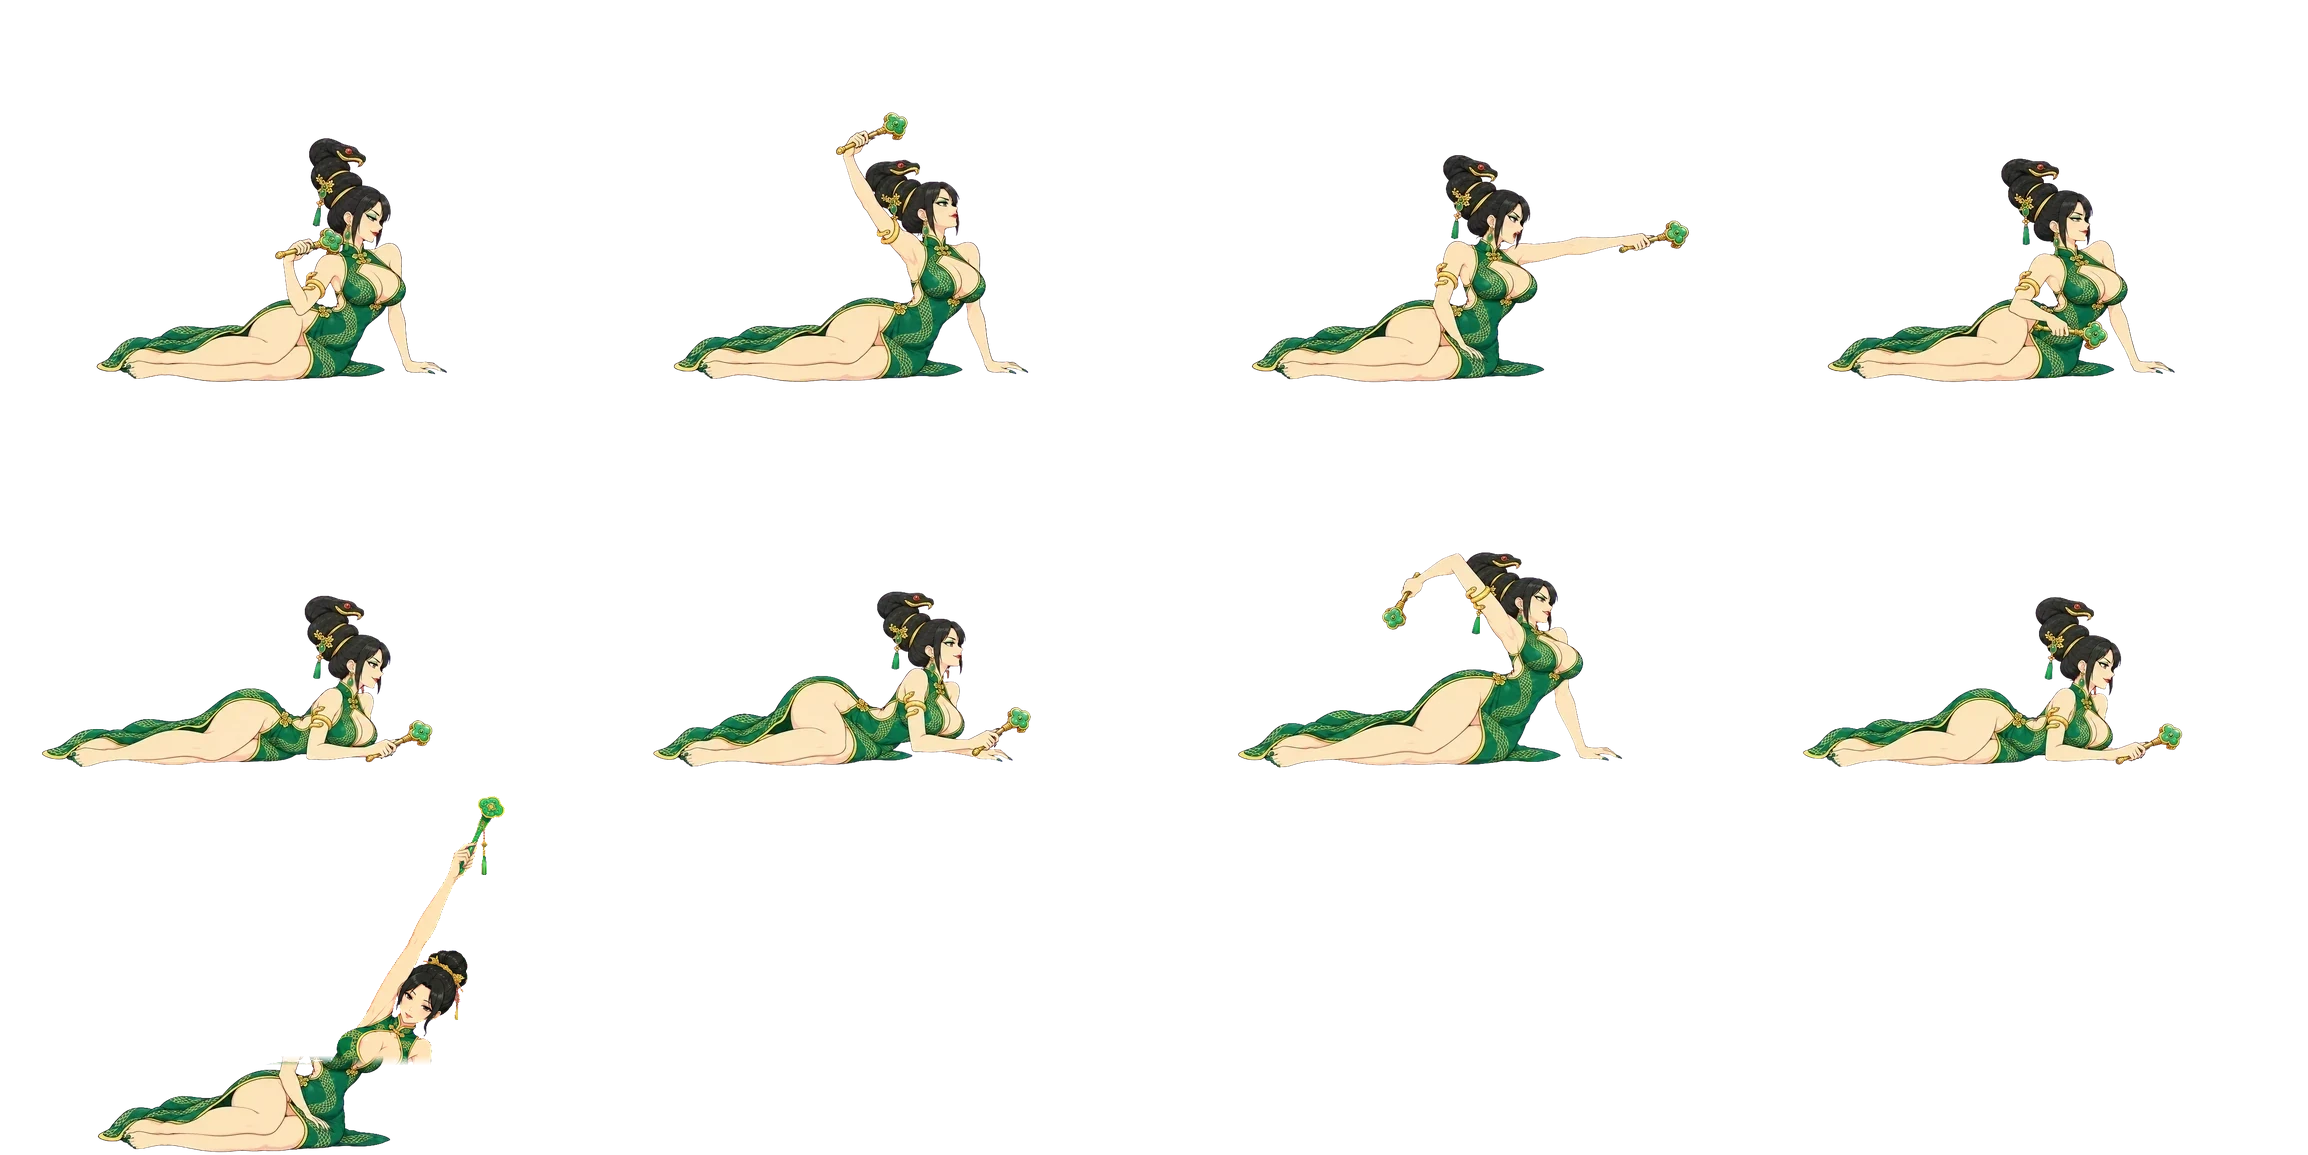
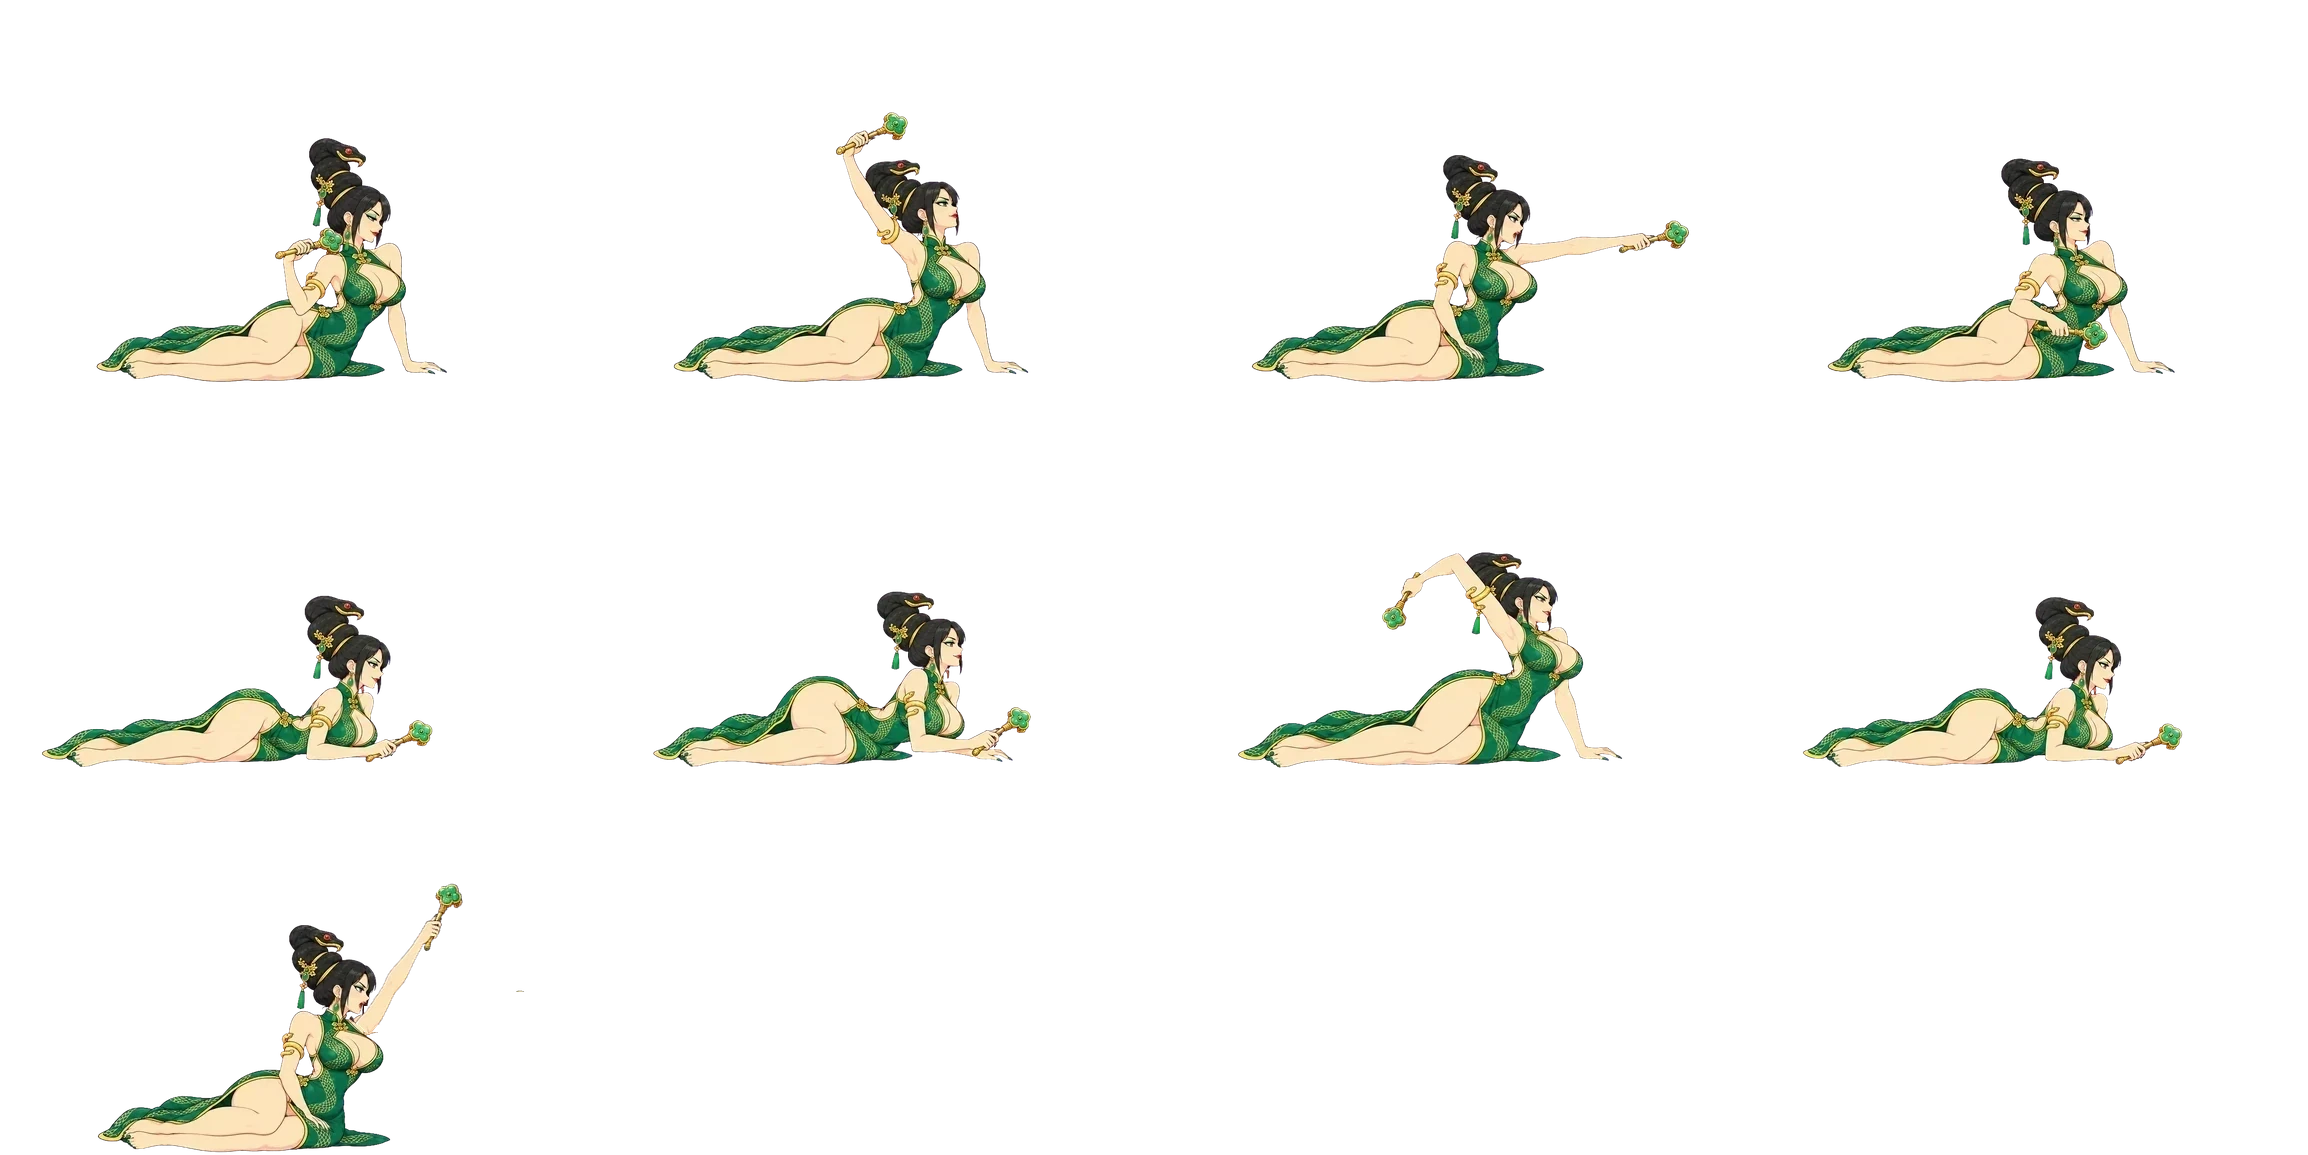
fix: G30 放光帧 release 重做——throw 手臂连如意绕肩上举 50°（切件，G30_snake/armrelease.py，身子逐像素同 throw）；原局部重绘帧上半身比例不对、框边缺一条（用户：图片缺失，动作畸形）；addframes 的 release 条目删除

Changed region(s): [[0.1248, 0.6857, 0.2184, 0.9351]]

diff --git a/chashouji/web/trio_bestie.js b/chashouji/web/trio_bestie.js
@@ -191,8 +191,8 @@ const TRIO_BESTIE = {
       /* 发髻上垂下的翠玉流苏：顶钉住（'t'），框左、右、下三边透明 */
       flex: { follow: [[290, 223, 300, 248, 't', 6, 1.1]] },
       /* 如意画在帧里：往后抡（wind2）→ 举过头顶（wind）→ 指向他放光（throw）→ 收回膝前（follow = 待机） */
-      atk: { kind: 'beam', seq: [['wind2', 0.18], ['wind', 0.2], ['release', 0.5, 'fire'], ['follow', 0.3]], dir: { release: 70 },   // 精闺1：举如意的手臂 70°（所需 69°），光从如意头直出
-             hold: { wind2: [254, 227], wind: [280, 124], throw: [522, 234], release: [488, 40] }, stretch: 0, gap: [1.0, 1.4],
+      atk: { kind: 'beam', seq: [['wind2', 0.18], ['wind', 0.2], ['release', 0.5, 'fire'], ['follow', 0.3]], dir: { release: 59 },   // release = throw 手臂连如意绕肩上举 50°（切件，bestie/G30_snake/armrelease.py；原局部重绘帧上半身比例不对、缺一条），手臂 59°（所需 69°，差 10°），光从如意头直出
+             hold: { wind2: [254, 227], wind: [280, 124], throw: [522, 234], release: [449.3, 126.1] }, stretch: 0, gap: [1.0, 1.4],
              beam: { fire: 0.45, drip: 0.1, ball: 30, glow: [120, 255, 150], edge: [20, 120, 60],
                      layers: [[40, [20, 120, 60], 0.3], [28, [60, 200, 100], 0.6], [16, [140, 255, 170], 0.9], [6, [240, 255, 240], 1]] } },
     },

diff --git a/chashouji/v14/trio/bestie/G30_snake/armrelease.py b/chashouji/v14/trio/bestie/G30_snake/armrelease.py
@@ -1,0 +1,22 @@
+"""G30 放光帧 release（2026-10-02 总控，用户："图片缺失，动作畸形"）：throw 帧平伸的手臂连如意绕肩往上转 50°，举起来朝右上放光。
+原 release 是 addframes 局部重绘、只把生图上半身贴回 throw（inplace 框 [225, 0, 497, 185]）：生图的人胸胯腿都画大一圈、头却差不多大，
+按腿配准上半身就小一截，框边还缺一条；整张用又是身子大一圈 —— 生图比例和底图对不上，所以不用生图（addframes.json 里的 release 条目已删）。
+throw 帧肩口以外（下巴右侧 x ≥ 364 起）的手臂、手和如意都悬在透明底上，抠出来绕肩点转、贴回 —— 身子逐像素同 throw。
+切口分三段：肩口 236~262 行；x ≥ 378 多切到 266 行（胳膊下沿那道轮廓线，不切会在腋下留一道线）；x ≥ 392 整段（手和如意）。
+直接替换图集里 release 那一格；重新 build 图集之后再跑一次。在 chashouji 下：python3 v14/trio/bestie/G30_snake/armrelease.py"""
+import json, math, os
+import numpy as np
+from PIL import Image
+WEB = os.path.join(os.path.dirname(os.path.abspath(__file__)), '../../../../web/assets/trio')
+PIV, ROT = (370, 258), 50     # 肩点（格内）、转多少度（正 = 逆时针 = 往上举）
+m = json.load(open(os.path.join(WEB, 'G30_snake.json'))); a = Image.open(os.path.join(WEB, 'G30_snake.webp')).convert('RGBA')
+cw, ch = m['cell']; C = m['cols']; assert m['cell'] == [577, 385], '切口和肩点量在 cell 577×385 的图集上'
+cell = lambda n: (m['frames'].index(n) % C * cw, m['frames'].index(n) // C * ch)
+x, y = cell('throw'); A = np.array(a.crop((x, y, x + cw, y + ch))); yy, xx = np.mgrid[:ch, :cw]
+sel = ((xx >= 364) & (yy >= 236) & (yy < 262)) | ((xx >= 378) & (yy >= 236) & (yy < 267)) | ((xx >= 392) & (yy >= 222) & (yy < 300))
+arm = A.copy(); arm[~sel] = 0; rest = A.copy(); rest[sel] = 0
+rel = Image.fromarray(rest); rel.alpha_composite(Image.fromarray(arm).rotate(ROT, resample=Image.BICUBIC, center=PIV))
+x, y = cell('release'); a.paste(rel, (x, y))
+a.save(os.path.join(WEB, 'G30_snake.webp'), 'WEBP', quality=90, method=6)
+t = math.radians(ROT); dx, dy = 522 - PIV[0], 234 - PIV[1]        # throw 的如意头 hold [522, 234] 跟着转
+print('release 如意头', [round(PIV[0] + dx * math.cos(t) + dy * math.sin(t), 1), round(PIV[1] - dx * math.sin(t) + dy * math.cos(t), 1)])
